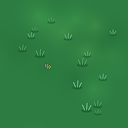
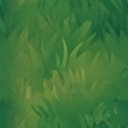
art(world,ui): overhaul sanctuary plaza, meadow tiles, props & HUD toward concept art

diff --git a/src/scenes/GameScene.ts b/src/scenes/GameScene.ts
@@ -76,13 +76,13 @@ const MONSTER_SPRITE: Record<string, string> = {
 
 /** Per-species visual scale multiplier for clear enemy silhouette hierarchy. */
 const MONSTER_VISUAL_SCALE: Record<string, number> = {
-  slime: 0.35,
-  bat: 0.50,
-  goblin: 0.56,
-  skeleton: 0.60,
-  spirit: 0.56,
-  golem: 0.72,
-  rift_wolf: 0.72,
+  slime: 0.30,
+  bat: 0.45,
+  goblin: 0.54,
+  skeleton: 0.56,
+  spirit: 0.54,
+  golem: 0.70,
+  rift_wolf: 0.70,
 };
 
 type FacingDir = 'down' | 'side' | 'up';
@@ -183,6 +183,7 @@ export class GameScene extends Phaser.Scene {
   private joystick!: VirtualJoystick;
   private hudGraphics!: Phaser.GameObjects.Graphics;
   private hudTitle!: Phaser.GameObjects.Text;
+  private hudHeroPortrait?: Phaser.GameObjects.Sprite;
   private hudHpText!: Phaser.GameObjects.Text;
   private hudCoreText!: Phaser.GameObjects.Text;
   private hudMetaText!: Phaser.GameObjects.Text;
@@ -247,7 +248,7 @@ export class GameScene extends Phaser.Scene {
     this.load.image('sanctuary_plaza', 'assets/tiles/sanctuary_plaza.png');
     this.load.spritesheet('world_props', 'assets/tiles/world_props.png', { frameWidth: 128, frameHeight: 128 });
     this.load.spritesheet('gather_nodes', 'assets/tiles/gather_nodes.png', { frameWidth: 128, frameHeight: 128 });
-    this.load.spritesheet('base_core', 'assets/sprites/base_core.png', { frameWidth: 96, frameHeight: 96 });
+    this.load.spritesheet('base_core', 'assets/sprites/base_core.png', { frameWidth: 160, frameHeight: 160 });
     this.load.spritesheet('hero_idle', 'assets/sprites/hero_idle.png', { frameWidth: 128, frameHeight: 128 });
     this.load.spritesheet('hero_walk', 'assets/sprites/hero_walk.png', { frameWidth: 128, frameHeight: 128 });
     this.load.spritesheet('hero_hit', 'assets/sprites/hero_hit.png', { frameWidth: 128, frameHeight: 128 });
@@ -432,7 +433,7 @@ export class GameScene extends Phaser.Scene {
       });
     }
     this.bossSprite = this.add.sprite(0, 0, 'boss_bloodmoon_walk').setScale(1.18).setDepth(9).setVisible(false);
-    this.playerSprite = this.add.sprite(this.state.player.x, this.state.player.y, 'hero_idle').setScale(0.66).setDepth(this.depthAtY(this.state.player.y));
+    this.playerSprite = this.add.sprite(this.state.player.x, this.state.player.y, 'hero_idle').setScale(0.58).setDepth(this.depthAtY(this.state.player.y));
     this.cameras.main.setBounds(0, 0, WORLD, WORLD).startFollow(this.playerSprite, true, 0.15, 0.15);
 
     this.phaseShade = this.add
@@ -490,6 +491,14 @@ export class GameScene extends Phaser.Scene {
     this.joystick = new VirtualJoystick(this);
 
     this.hudGraphics = this.add.graphics().setScrollFactor(0).setDepth(890);
+    if (this.textures.exists('hero_idle')) {
+      this.hudHeroPortrait = this.add
+        .sprite(38, 66, 'hero_idle', 0)
+        .setCrop(24, 6, 80, 74)
+        .setScale(0.45)
+        .setScrollFactor(0)
+        .setDepth(900);
+    }
     this.hudTitle = this.add
       .text(31, 15, '', {
         fontFamily: 'system-ui, sans-serif',
@@ -502,7 +511,7 @@ export class GameScene extends Phaser.Scene {
       .setScrollFactor(0)
       .setDepth(900);
     this.hudHpText = this.add
-      .text(23, 40, '', {
+      .text(68, 40, '', {
         fontFamily: 'system-ui, sans-serif',
         fontSize: '11px',
         fontStyle: 'bold',
@@ -513,7 +522,7 @@ export class GameScene extends Phaser.Scene {
       .setScrollFactor(0)
       .setDepth(901);
     this.hudCoreText = this.add
-      .text(23, 58, '', {
+      .text(68, 58, '', {
         fontFamily: 'system-ui, sans-serif',
         fontSize: '11px',
         fontStyle: 'bold',
@@ -851,21 +860,21 @@ export class GameScene extends Phaser.Scene {
     }
 
     if (down) {
-      this.playerSprite.setFlipX(false).setAlpha(0.75).clearTint().setScale(0.66, 0.66).setRotation(0);
+      this.playerSprite.setFlipX(false).setAlpha(0.75).clearTint().setScale(0.58, 0.58).setRotation(0);
       if (this.playerSprite.anims.currentAnim?.key !== 'hero_death') this.playerSprite.play('hero_death', true);
     } else if (s.invulnLeft > 0) {
       this.playerSprite
         .setAlpha(0.92)
         .setTexture('hero_hit', FACING_ROW[this.heroFacing])
         .setTint(0xff9999)
-        .setScale(0.66, 0.66)
+        .setScale(0.58, 0.58)
         .setRotation(0);
     } else {
       this.playerSprite.setAlpha(1).clearTint().setRotation(0);
       const heroAnim = `${moving ? 'hero_walk' : 'hero_idle'}_${this.heroFacing}`;
       if (this.playerSprite.anims.currentAnim?.key !== heroAnim) this.playerSprite.play(heroAnim, true);
       const castPop = this.castPoseLeft > 0 ? 1.05 : 1;
-      this.playerSprite.setScale(0.66 * castPop, 0.66 * castPop);
+      this.playerSprite.setScale(0.58 * castPop, 0.58 * castPop);
     }
 
     // Core visual reflects damage state (frame 0 healthy, 1 damaged, 2 broken) with gentle levitation.
@@ -1394,8 +1403,8 @@ export class GameScene extends Phaser.Scene {
 
       if (phase === 'day') {
         const col = m.variant === 0 ? 0xfef08a : m.variant === 1 ? 0xd9f99d : 0xffffff;
-        ag.fillStyle(col, 0.38 * pulse).fillCircle(wx, wy, m.r * 1.45);
-        ag.fillStyle(0xffffff, 0.55 * pulse).fillCircle(wx, wy, m.r * 0.55);
+        ag.fillStyle(col, 0.42 * pulse).fillCircle(wx, wy, m.r * 1.55);
+        ag.fillStyle(0xffffff, 0.62 * pulse).fillCircle(wx, wy, m.r * 0.6);
       } else if (phase === 'evening') {
         const col = m.variant === 0 ? 0xf97316 : m.variant === 1 ? 0xfacc15 : 0xfef08a;
         ag.fillStyle(col, 0.32 * pulse).fillCircle(wx, wy, m.r * 2.1);
@@ -1405,6 +1414,23 @@ export class GameScene extends Phaser.Scene {
         ag.fillStyle(col, 0.24 * pulse).fillCircle(wx, wy, m.r * 3.1);
         ag.fillStyle(col, 0.55 * pulse).fillCircle(wx, wy, m.r * 1.6);
         ag.fillStyle(0xffffff, 0.9 * pulse).fillCircle(wx, wy, m.r * 0.65);
+      }
+    }
+    // Soft warm canopy sunbeam shafts during sunlit daytime
+    if (phase === 'day') {
+      const shimmer = 0.032 + 0.012 * Math.sin(this.animTime * 0.9);
+      for (let b = 0; b < 3; b++) {
+        const bx = cx - 340 + b * 310 + Math.sin(this.animTime * 0.35 + b) * 18;
+        const by = cy - 420;
+        ag.fillStyle(0xfef08a, shimmer).fillPoints(
+          [
+            { x: bx - 44, y: by },
+            { x: bx + 44, y: by },
+            { x: bx + 220, y: by + 760 },
+            { x: bx + 110, y: by + 760 },
+          ],
+          true,
+        );
       }
     }
   }
@@ -1496,8 +1522,8 @@ export class GameScene extends Phaser.Scene {
       }
     };
     const coreShieldRatio = (s.coreShield ?? 0) > 0 ? Math.min(1, s.coreShield! / Math.max(1, s.coreMaxHp * 0.4)) : 0;
-    bar(CORE_X, CORE_Y - 58, 96, s.coreHp / s.coreMaxHp, 0xc084fc, 8, coreShieldRatio);
-    bar(s.player.x, s.player.y - 54, 42, s.player.hp / s.player.maxHp, 0x22c55e, 7);
+    bar(CORE_X, CORE_Y - 78, 96, s.coreHp / s.coreMaxHp, 0xc084fc, 8, coreShieldRatio);
+    bar(s.player.x, s.player.y - 48, 42, s.player.hp / s.player.maxHp, 0x22c55e, 7);
     for (const m of s.monsters) {
       if (m.hp < m.maxHp) {
         const mw = m.defId === 'rift_wolf' || m.defId === 'golem' ? 36 : 26;
@@ -1509,15 +1535,17 @@ export class GameScene extends Phaser.Scene {
 
   private drawHud(fpsSnap?: FpsMonitorSnapshot): void {
     const s = this.state;
-    const panelW = Math.min(266, Math.max(216, this.scale.width - (import.meta.env.DEV ? 148 : 20)));
-    const barW = panelW - 16;
+    const panelW = Math.min(288, Math.max(222, this.scale.width - (import.meta.env.DEV ? 148 : 20)));
+    const hasPortrait = !!this.hudHeroPortrait;
+    const barX = hasPortrait ? 64 : 18;
+    const barW = panelW - barX - 10;
 
     const left = phaseRemaining(s);
     const time = Number.isFinite(left) ? `${Math.ceil(left)} วิ` : 'จันทร์เลือด';
     this.hudTitle.setText(`วันที่ ${s.day}/7 · ${PHASE_LABEL[s.phase]} · ${time}`);
-    this.hudHpText.setText(`HP ${Math.ceil(s.player.hp)}/${s.player.maxHp}`);
+    this.hudHpText.setX(barX + 5).setText(`HP ${Math.ceil(s.player.hp)}/${s.player.maxHp}`);
     const shieldTxt = (s.coreShield ?? 0) > 0 ? ` (+โล่ ${Math.ceil(s.coreShield!)})` : '';
-    this.hudCoreText.setText(`แกนฐาน ${Math.ceil(s.coreHp)}/${s.coreMaxHp}${shieldTxt}`);
+    this.hudCoreText.setX(barX + 5).setText(`แกนฐาน ${Math.ceil(s.coreHp)}/${s.coreMaxHp}${shieldTxt}`);
 
     const nextXp = Math.max(1, xpToNext(s.player.level));
     const fpsText = fpsSnap
@@ -1539,32 +1567,43 @@ export class GameScene extends Phaser.Scene {
     if (this.systemToast.visible) this.positionSystemToast();
 
     const g = this.hudGraphics.clear();
-    // Classic RO Basic Info window frame
+    // Classic RO / Concept Fantasy Gold & Slate Basic Info window frame
     drawRoWindow(g, 10, 10, panelW, panelH, { headerHeight: 24, bodyAlpha: 0.92 });
+
+    // Ornate Gold-Framed Hero Portrait Thumbnail inside Basic Info HUD
+    if (hasPortrait) {
+      g.fillStyle(0x16243d, 0.98).fillRoundedRect(17, 38, 42, 42, 4);
+      g.lineStyle(1.8, RO_PALETTE.windowGoldAccent, 0.95).strokeRoundedRect(17, 38, 42, 42, 4);
+      g.lineStyle(1, RO_PALETTE.windowOuterBorder, 0.9).strokeRoundedRect(19, 40, 38, 38, 3);
+    }
 
     // Segmented HP / CORE / EXP bars
     const hpRatio = Phaser.Math.Clamp(s.player.hp / Math.max(1, s.player.maxHp), 0, 1);
-    drawRoGaugeBar(g, 18, 39, barW, 14, hpRatio, hpRatio < 0.35 ? RO_PALETTE.hpLowFill : RO_PALETTE.hpFill);
+    drawRoGaugeBar(g, barX, 39, barW, 14, hpRatio, hpRatio < 0.35 ? RO_PALETTE.hpLowFill : RO_PALETTE.hpFill);
 
     const coreRatio = Phaser.Math.Clamp(s.coreHp / Math.max(1, s.coreMaxHp), 0, 1);
-    drawRoGaugeBar(g, 18, 57, barW, 14, coreRatio, RO_PALETTE.spFill);
+    drawRoGaugeBar(g, barX, 57, barW, 14, coreRatio, RO_PALETTE.spFill);
 
     const xpRatio = Phaser.Math.Clamp(s.player.xp / nextXp, 0, 1);
-    drawRoGaugeBar(g, 18, 75, barW, 8, xpRatio, RO_PALETTE.expFill);
+    drawRoGaugeBar(g, barX, 75, barW, 8, xpRatio, RO_PALETTE.expFill);
 
     // Sunken status well for inventory + Synergy
     const wellH = Math.max(22, panelH - 107);
     g.fillStyle(RO_PALETTE.windowWell, 0.92).fillRoundedRect(16, 101, panelW - 12, wellH, 4);
     g.lineStyle(1, RO_PALETTE.windowBevelDark, 0.95).strokeRoundedRect(16, 101, panelW - 12, wellH, 4);
 
-    // Bottom-right 84x84 Tactical Mini-Radar
-    const radarSize = 84;
-    const rx = this.scale.width - 96;
-    const ry = this.scale.height - 134;
-    this.radarLabel.setPosition(rx, ry - 14);
-    g.fillStyle(RO_PALETTE.windowOuterBorder, 0.92).fillRoundedRect(rx - 2, ry - 2, radarSize + 4, radarSize + 4, 6);
-    g.fillStyle(0x0b1322, 0.86).fillRoundedRect(rx, ry, radarSize, radarSize, 5);
-    g.lineStyle(1.5, RO_PALETTE.windowGoldAccent, 0.8).strokeRoundedRect(rx, ry, radarSize, radarSize, 5);
+    // Bottom-right 88x88 Tactical Mini-Radar with Fantasy Gold Bezel & Crosshairs
+    const radarSize = 88;
+    const rx = this.scale.width - 100;
+    const ry = this.scale.height - 138;
+    this.radarLabel.setPosition(rx, ry - 15).setText('🧭 N · RADAR');
+    g.fillStyle(RO_PALETTE.windowOuterBorder, 0.95).fillRoundedRect(rx - 3, ry - 3, radarSize + 6, radarSize + 6, 7);
+    g.fillStyle(0x09111e, 0.9).fillRoundedRect(rx, ry, radarSize, radarSize, 5);
+    g.lineStyle(1.8, RO_PALETTE.windowGoldAccent, 0.92).strokeRoundedRect(rx, ry, radarSize, radarSize, 5);
+    g.lineStyle(1, 0x38bdf8, 0.16).strokeCircle(rx + radarSize / 2, ry + radarSize / 2, radarSize * 0.34);
+    g.lineStyle(1, 0x94a3b8, 0.14)
+      .lineBetween(rx + radarSize / 2, ry + 4, rx + radarSize / 2, ry + radarSize - 4)
+      .lineBetween(rx + 4, ry + radarSize / 2, rx + radarSize - 4, ry + radarSize / 2);
     const toRadar = (wx: number, wy: number) => ({
       x: rx + 4 + Phaser.Math.Clamp(wx / WORLD, 0, 1) * (radarSize - 8),
       y: ry + 4 + Phaser.Math.Clamp(wy / WORLD, 0, 1) * (radarSize - 8),
@@ -2822,19 +2861,26 @@ export class GameScene extends Phaser.Scene {
       }
     }
 
-    // Subtle carved outer sanctuary ring + 8 runic perimeter stones
-    gRoads.lineStyle(10, 0x1e293b, 0.22).strokeEllipse(CORE_X, plazaY, 1080, 620);
-    gRoads.lineStyle(4, 0x94a3b8, 0.25).strokeEllipse(CORE_X, plazaY, 1080, 620);
+    // Outer sanctuary carved stone boundary ring + 8 glowing cyan crystal pylons (concept-art silhouette)
+    gRoads.lineStyle(12, 0x1e293b, 0.24).strokeEllipse(CORE_X, plazaY, 1080, 620);
+    gRoads.lineStyle(5, 0xcbd5e1, 0.34).strokeEllipse(CORE_X, plazaY, 1080, 620);
+    gRoads.lineStyle(2, 0x38bdf8, 0.24).strokeEllipse(CORE_X, plazaY, 1080, 620);
     for (let k = 0; k < 8; k++) {
       const a = (k * Math.PI * 2) / 8 + Math.PI / 8;
       const sx = CORE_X + Math.cos(a) * 540;
       const sy = plazaY + Math.sin(a) * 310;
-      gRoads.fillStyle(0x0f172a, 0.25).fillEllipse(sx + 2, sy + 4, 24, 14);
-      gRoads.fillStyle(0x64748b, 0.85).fillEllipse(sx, sy, 20, 12);
-      gRoads.fillStyle(0x38bdf8, 0.65).fillCircle(sx, sy - 1, 2.5);
+      gRoads.fillStyle(0x38bdf8, 0.22).fillEllipse(sx, sy - 6, 44, 24);
+      gRoads.fillStyle(0x0f172a, 0.32).fillEllipse(sx + 2, sy + 5, 28, 15);
+      gRoads.fillStyle(0x64748b, 0.94).fillEllipse(sx, sy + 1, 24, 13);
+      gRoads.lineStyle(1.4, 0x0f172a, 0.78).strokeEllipse(sx, sy + 1, 24, 13);
+      // Upright glowing azure diamond pylon
+      gRoads.fillStyle(0x0284c7, 1).fillTriangle(sx, sy - 16, sx + 6.5, sy - 4, sx, sy + 2);
+      gRoads.fillStyle(0x7dd3fc, 1).fillTriangle(sx, sy - 16, sx - 6.5, sy - 4, sx, sy + 2);
+      gRoads.fillStyle(0xe0f2fe, 0.9).fillCircle(sx - 1, sy - 7, 1.8);
+      gRoads.lineStyle(1.2, 0x0f172a, 0.85).strokeTriangle(sx - 6.5, sy - 4, sx, sy - 16, sx + 6.5, sy - 4);
     }
 
-    const stoneTones = [0x94a3b8, 0x8192a8, 0xa8a29e, 0x7c8ca3];
+    const stoneTones = [0xcbd5e1, 0xb8c0cc, 0xd6d3d1, 0xa8a29e];
     const drawNaturalSlab = (fx: number, fy: number, w: number, h: number, idx: number, milestone = false) => {
       const base = stoneTones[idx % stoneTones.length];
       gRoads.fillStyle(0x0f172a, 0.24).fillEllipse(fx + 2, fy + 3.5, w + 2, h + 1);
@@ -2890,42 +2936,42 @@ export class GameScene extends Phaser.Scene {
     drawRoadTrack(true, -1);
     drawRoadTrack(true, 1);
 
-    // Pre-rendered 3D Sanctuary Plaza around Core.
+    // Pre-rendered 2.5D Sanctuary Plaza around Core.
     if (this.textures.exists('sanctuary_plaza')) {
       this.add.image(CORE_X, plazaY, 'sanctuary_plaza').setDepth(1.5);
     }
 
-    // Deterministic 3D world props (trees, crystal boulders, mossy shrine stele, ruin pillars) sorted by Y depth.
+    // Deterministic 2.5D world props (oak trees, crystal clusters, mossy shrine arches, waystones) sorted by Y depth.
     const gPropShadows = this.add.graphics().setDepth(2.2);
     const hasProps = this.textures.exists('world_props');
     for (let i = 0; i < 84; i++) {
       const x = map.int(1, MAP_TILES - 2) * TILE + TILE / 2;
       const y = map.int(1, MAP_TILES - 2) * TILE + TILE / 2;
       const kind = map.int(0, 3);
-      if (Math.hypot(x - CORE_X, y - CORE_Y) < 188) continue;
-      if ((Math.abs(x - CORE_X) < 44 && Math.abs(y - plazaY) < 560) || (Math.abs(y - plazaY) < 36 && Math.abs(x - CORE_X) < 800)) {
+      if (Math.hypot(x - CORE_X, y - CORE_Y) < 228) continue;
+      if ((Math.abs(x - CORE_X) < 52 && Math.abs(y - plazaY) < 560) || (Math.abs(y - plazaY) < 42 && Math.abs(x - CORE_X) < 800)) {
         continue;
       }
       if (hasProps) {
-        gPropShadows.fillStyle(0x0f172a, 0.14).fillEllipse(x + 4, y + 7, 44, 18);
-        gPropShadows.fillStyle(0x0f172a, 0.24).fillEllipse(x + 2, y + 5, 32, 12);
+        gPropShadows.fillStyle(0x0f172a, 0.14).fillEllipse(x + 4, y + 7, 50, 20);
+        gPropShadows.fillStyle(0x0f172a, 0.24).fillEllipse(x + 2, y + 5, 36, 14);
         this.add
           .sprite(x, y, 'world_props', kind)
-          .setOrigin(0.5, 0.78)
-          .setScale(0.54)
+          .setOrigin(0.5, 0.80)
+          .setScale(0.62)
           .setDepth(this.depthAtY(y));
       } else {
         gPropShadows.fillStyle(0x2d6a4f, 0.9).fillCircle(x, y, 8);
       }
     }
 
-    // 3D Base core in the centre (GDD §5) — Y-sorted with Hero & Monsters.
+    // 2.5D Illustrated Base Core crystal dais in the centre (GDD §5) — Y-sorted with Hero & Monsters.
     this.coreSprite = this.add
-      .sprite(CORE_X, CORE_Y - 12, 'base_core', 0)
-      .setScale(1.05)
+      .sprite(CORE_X, CORE_Y - 14, 'base_core', 0)
+      .setScale(1.06)
       .setDepth(this.depthAtY(CORE_Y));
     this.add
-      .text(CORE_X, CORE_Y + 42, 'แกนฐาน', {
+      .text(CORE_X, CORE_Y + 46, 'แกนฐาน', {
         fontFamily: 'system-ui, sans-serif',
         fontSize: '14px',
         fontStyle: 'bold',

diff --git a/src/ui/roTheme.ts b/src/ui/roTheme.ts
@@ -6,7 +6,7 @@ import type Phaser from 'phaser';
  */
 export const RO_PALETTE = {
   windowOuterBorder: 0x0b111e,
-  windowBevelLight: 0x9bb5dc,
+  windowBevelLight: 0xe5c158,
   windowBevelDark: 0x2c3e5e,
   windowGoldAccent: 0xe5c158,
   windowBody: 0x182238,
@@ -16,7 +16,7 @@ export const RO_PALETTE = {
   rowSelectedBg: 0x27476e,
   headerTop: 0x3b5b8c,
   headerBottom: 0x253b61,
-  headerHighlight: 0x93c5fd,
+  headerHighlight: 0xfde68a,
   headerCrimsonTop: 0x7f1d3d,
   headerCrimsonBottom: 0x4c1127,
   hpFill: 0x22c55e,
@@ -170,9 +170,9 @@ export function drawRoWindow(
   g.lineStyle(1.5, RO_PALETTE.windowBevelLight, 0.85).strokeRoundedRect(x + 1, y + 1, w - 2, h - 2, 5);
   g.lineStyle(1, RO_PALETTE.windowBevelDark, 0.9).strokeRoundedRect(x + 2, y + 2, w - 4, h - 4, 4);
 
-  // Brass/gold corner L-ticks for RO-Rift signature trim
-  const tick = 7;
-  g.lineStyle(2, RO_PALETTE.windowGoldAccent, 0.92);
+  // Brass/gold corner L-ticks & ornate filigree studs for fantasy RPG trim
+  const tick = 8;
+  g.lineStyle(2, RO_PALETTE.windowGoldAccent, 0.95);
   // Top-left
   g.lineBetween(x + 1, y + tick, x + 1, y + 1);
   g.lineBetween(x + 1, y + 1, x + tick, y + 1);
@@ -185,6 +185,16 @@ export function drawRoWindow(
   // Bottom-right
   g.lineBetween(x + w - tick, y + h - 1, x + w - 1, y + h - 1);
   g.lineBetween(x + w - 1, y + h - tick, x + w - 1, y + h - 1);
+  // Corner gold studs
+  g.fillStyle(RO_PALETTE.windowGoldAccent, 0.95);
+  for (const [cx, cy] of [
+    [x + 2, y + 2],
+    [x + w - 2, y + 2],
+    [x + 2, y + h - 2],
+    [x + w - 2, y + h - 2],
+  ]) {
+    g.fillCircle(cx, cy, 2);
+  }
 }
 
 /**

diff --git a/HANDOFF.md b/HANDOFF.md
@@ -197,6 +197,7 @@
 ## Log
 | เวลา | ใคร | ทำอะไร | commit/branch |
 | --- | --- | --- | --- |
+| 2026-11-16 21:52 | Gemini | **ยกระดับภาพฉาก พื้นหญ้า แท่น Sanctuary และ HUD ให้ใกล้เคียง Concept Art (`gemini/concept-art-overhaul`):** สร้าง `base_core.png` (`480×160` แท่นบันไดหินทอง + คริสตัลม่วง/ร้าวไฟ/แตกด้วย AI illustration), ตัดพื้นหญ้าเพนต์ `tile_ground_01..05.png` ไร้รอยต่อพร้อมช่อดอกไม้เดซี่, วาด 4×SSAA `sanctuary_plaza.png` (ขอบทอง+ธงม่วงคู่+4 เตาไฟ+บันได 4 ทิศ) / `world_props.png` / `gather_nodes.png`, เพิ่มพอร์ตเทรตฮีโร่ใน HUD บนซ้าย, กรอบทองพร้อมสตั๊ดมุม + เรดาร์ทอง `N · RADAR` ใน `roTheme.ts` & `GameScene.ts`, เสาคริสตัลฟ้า 8 ต้นรอบวงแหวน, ลำแสงแดดกลางวัน และปรับสเกลฮีโร่ `0.58` / สไลม์ `0.30` (`npm test` **34 ไฟล์ / 248 เทสต์**, `npm run build` ผ่าน, Live Browser QA `1280×720` `?renderer=canvas` **0 errors / 60 FPS**) | `gemini/concept-art-overhaul` |
 | 2026-11-16 21:31 | Gemini | **วาดและตัดสไปรต์อนิเมะ 2D Studio-Illustrated 4×3 ยกชุดแทนโมเดลเวกเตอร์ (`gemini/pro-character-models`):** แทนสไปรต์เวกเตอร์ที่ดูแข็งด้วยภาพวาดอนิเมะ 2D เส้นหมึกคมและเงา cel-shaded ครบทุกตัว (`hero_idle`/`hero_walk`/`hero_hit`/`hero_death`, `mob_slime_walk`, `mob_bat_walk`, `mob_goblin_walk`, `mob_skeleton_archer_walk`, `mob_fog_wraith_walk`, `mob_mud_golem_walk`, `elite_rift_wolf_walk`, `boss_bloodmoon_walk`, `boss_bloodmoon_enrage_walk` ครบ 3 ทิศทาง `down`/`side`/`up`) ผ่าน flood-fill de-fringe + ตัดช่องแบ่งต่อแถว + บีบอัดทุกไฟล์ `< 256 KB` พร้อมปรับ `MONSTER_VISUAL_SCALE` (`slime: 0.35` ฯลฯ) ใน `src/scenes/GameScene.ts` (`npm test` **34 ไฟล์ / 248 เทสต์**, `npm run build` ผ่าน, Live Browser QA `1280×720` `?renderer=canvas` **0 errors / 60 FPS**) | `gemini/pro-character-models` |
 | 2026-11-16 21:20 | Gemini | **อัปเกรดโมเดลตัวละครสัดส่วนสมจริง 3.5-Head Articulated 2D Anime (`gemini/pro-character-models`):** ออกแบบโมเดลตัวละคร Hero และศัตรูครบทุกตัวใหม่ตามสัดส่วนคอนเซปต์อาร์ต (`title_bg.jpg` & `03_prototype_sprite_sheet.jpg`) พร้อมแขน-ขา 2 ข้อต่อและกายวิภาคชัดเจนครบ 3 ทิศทาง (`down`/`side`/`up`) — Hero เสื้อทูนิก+ผ้าคลุม+ปลอกแขนเหล็ก+รองเท้าบูตพับข้อ+ดาบรูน, Goblin คอมลูม+ไม้กระบอง, Skeleton ซี่โครง+กะโหลก+ธนู+ซองลูกธนู, Wraith ผีหมอก+ตะเกียงวิญญาณ, Golem ศิลา, Elite หมาป่ามิติ 4 ขา, และ Bloodmoon Boss (ร่างปกติ & ร่างคลั่งมีหนวดมิติ+เคียวจันทร์เลือด) + ปรับสเกลและตำแหน่งแถบ HP บนหัวใน `GameScene.ts` (`npm test` 34 ไฟล์/248 เทสต์, `npm run build`, Live Browser QA `60 FPS` / **0 errors**) | `gemini/pro-character-models` |
 | 2026-11-16 21:09 | Gemini | **เพิ่มจำนวนและการกระจายมอนสเตอร์กลางวัน (`gemini/more-day-monsters`):** เพิ่มฝูงมอนสเตอร์กลางวันใน `src/data/waves.json` เป็น 36–57 ตัวต่อวันใน 6–8 กลุ่ม (จากเดิม 15–21 ตัว) และปรับ `spawnDayPatrols()` ใน `src/systems/monsters.ts` ให้กระจายทั้งวงใกล้-กลาง (8–13 ช่อง) และวงนอก (13–20 ช่อง) + เพิ่มเทสต์ใน `tests/patrol.test.ts` (`npm test` **34 ไฟล์ / 248 เทสต์**, `npm run build`, Live Browser QA เห็น **มอน 34 ตัว + 60 FPS + 0 errors**) | `gemini/more-day-monsters` |
